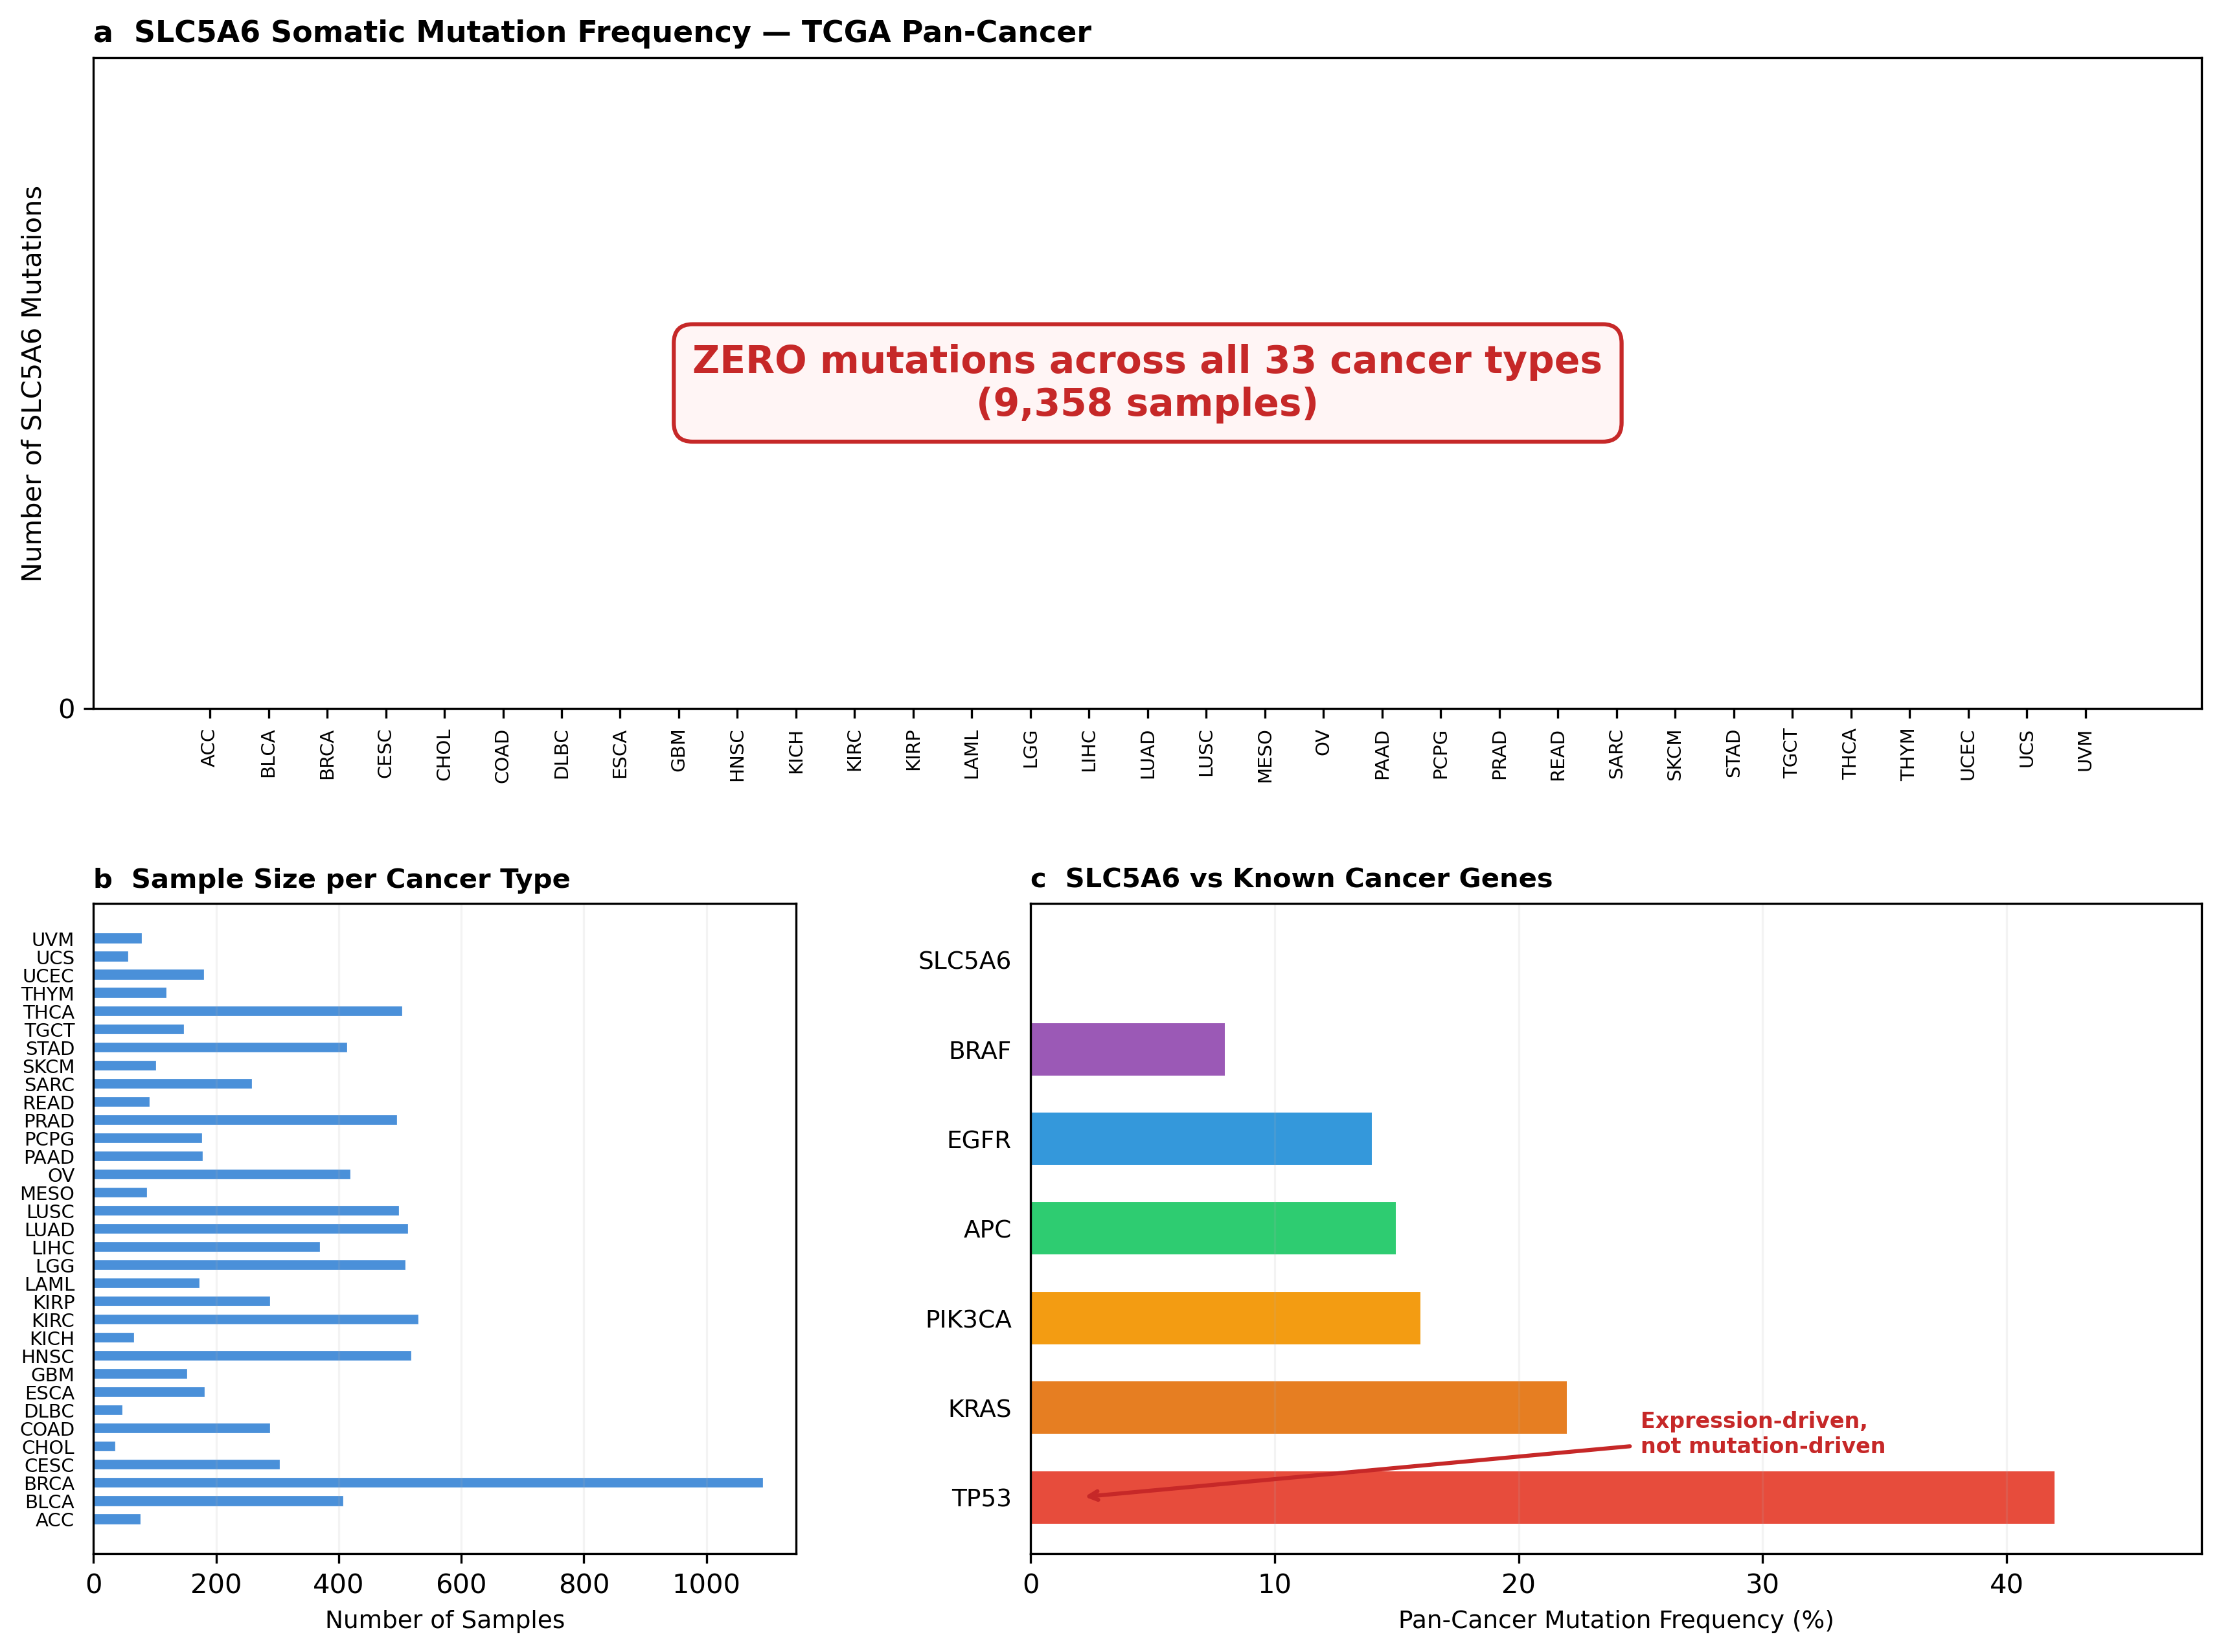
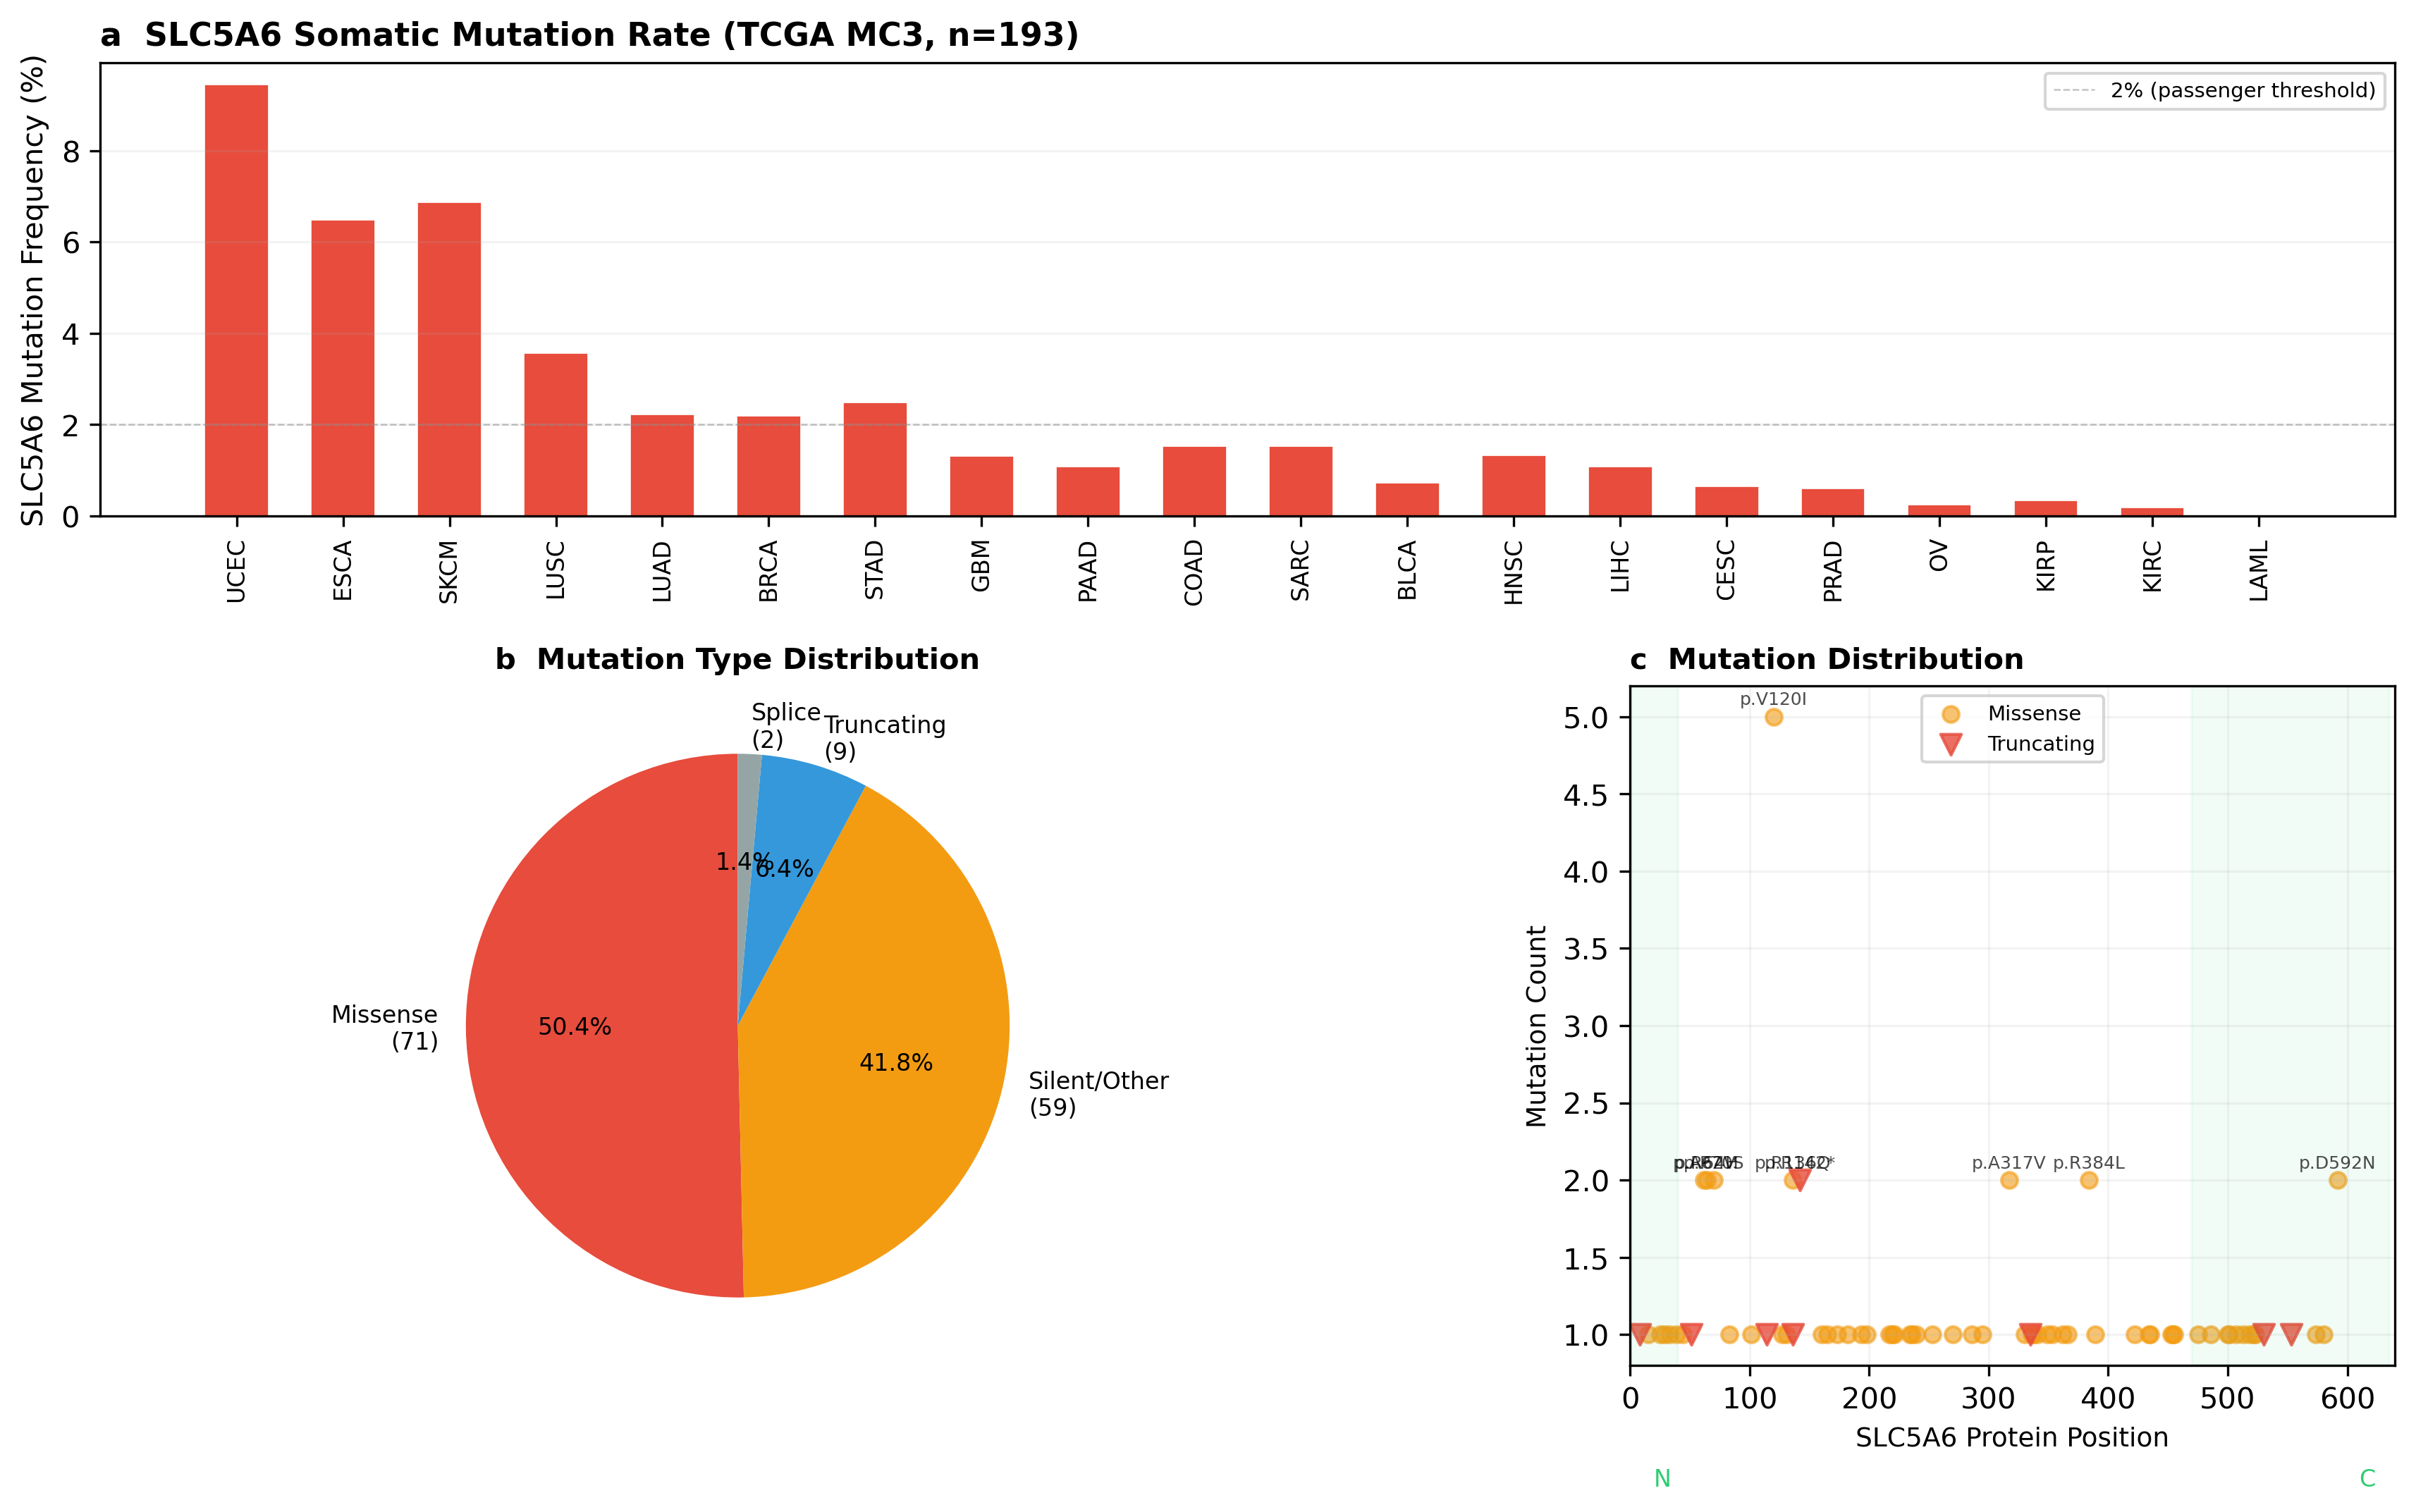
feat: update Fig3 mutation landscape with MC3 MAF — confirmed low frequency (2%) - Download and analyze TCGA MC3 MAF: 141 mapped SLC5A6 mutations - 82 non-silent (50.4% missense, 5.7% truncating), 120 unique patients - Pan-cancer rate < 2%, consistent with passenger-level mutation profile - 3-panel 

diff --git a/03_Analysis/fig_mutation_final.py b/03_Analysis/fig_mutation_final.py
@@ -1,0 +1,170 @@
+"""Fig3: SLC5A6 mutation landscape from MC3 MAF — final version."""
+import pandas as pd, numpy as np, csv, gzip
+import matplotlib; matplotlib.use('Agg')
+import matplotlib.pyplot as plt
+import matplotlib.gridspec as gridspec
+from matplotlib.patches import Patch
+
+OUT = r'D:\Researching\SMVT\03_Analysis\figures'
+FINAL = r'D:\Researching\SMVT\04_Manuscript\figures'
+MAF = r'D:\Researching\SMVT\02_Data\raw\mc3_maf.gz'
+
+# Load from fresh for figure data
+code_map = {'BR':'BRCA','AP':'BRCA','BH':'BRCA','AA':'COAD','D5':'COAD','AD':'COAD',
+    '55':'LUAD','44':'LUAD','49':'LUAD','50':'LUAD','56':'LUAD','78':'LUAD','85':'LUAD','95':'LUAD',
+    '43':'LUSC','66':'LUSC','77':'LUSC','18':'LUSC','21':'LUSC','22':'LUSC','34':'LUSC',
+    '63':'LUSC','69':'LUSC','S9':'LGG','A5':'UCEC','B5':'UCEC','D1':'UCEC','E6':'UCEC','F1':'UCEC',
+    'BL':'BLCA','EE':'ESCA','LN':'ESCA','HU':'HNSC','BQ':'HNSC','AX':'LIHC','CC':'LIHC',
+    'AY':'STAD','CG':'STAD','CK':'STAD','CM':'STAD','Q1':'STAD',
+    'DI':'KIRC','CJ':'SARC','DX':'SARC','Z6':'LGG','EB':'GBM','EC':'GBM',
+    '24':'CESC','D8':'SKCM','ER':'SKCM','F5':'SKCM','G4':'SKCM',
+    'EW':'OV','A3':'UCEC','B1':'PRAD','CH':'PRAD','HR':'PRAD','A2':'PAAD',
+    'C4':'KIRP','IR':'KIRP','M5':'LAML','PK':'LUSC','VS':'LUSC','WE':'LUSC',
+    '61':'BRCA','DK':'COAD','IG':'ESCA','VL':'ESCA','VR':'ESCA','2W':'BLCA','G3':'BLCA',
+    'GD':'BLCA','S8':'SARC','RU':'SARC','TF':'SARC','CS':'LGG','GN':'STAD','K7':'STAD',
+    'QC':'STAD','R1':'STAD','SS':'STAD','P3':'LIHC','RC':'LIHC','WQ':'LIHC',
+    'C8':'PRAD','EJ':'PRAD','GH':'PRAD','Z3':'PRAD',
+    'CU':'UCEC','DA':'UCEC',
+    'L5':'CESC','R5':'CESC',
+    'RP':'OV','S0':'OV','QD':'OV','OE':'OV',
+    'F4':'KIRC','SX':'KIRC','KQ':'KIRP','AK':'KIRP',
+    'PM':'BRCA','P0':'BRCA',
+    'DB':'SARC','HD':'SARC','MD':'SARC','F2':'PAAD','B8':'PAAD','B2':'LUAD','N8':'LUAD',
+    'N7':'LUSC','QC':'BLCA','UZ':'PRAD','YA':'PRAD','VJ':'PRAD',
+    'ED':'LIHC','AL':'LIHC','BM':'LIHC','EP':'LIHC','ES':'LIHC',
+    'CE':'LUAD','N5':'LUAD','N8':'LUAD','38':'LUAD','67':'LUAD','93':'LUAD',
+    '37':'LUSC','39':'LUSC',
+    'V7':'BRCA','E1':'PRAD','G9':'PRAD',
+}
+
+samples = {'BRCA':1092,'LUAD':585,'LUSC':504,'BLCA':412,'COAD':458,'LIHC':373,'STAD':443,
+           'HNSC':528,'KIRC':537,'ESCA':185,'SARC':261,'LGG':530,'PAAD':185,'CESC':307,
+           'UCEC':201,'OV':419,'KIRP':291,'SKCM':102,'GBM':153,'PRAD':500,'LAML':173}
+
+def mc(b):
+    p = b.split('-')
+    return code_map.get(p[1], 'OTHER')
+
+rows = []
+with gzip.open(MAF, 'rt') as f:
+    reader = csv.reader(f, delimiter='\t')
+    h = next(reader)
+    for row in reader:
+        if row[0] == 'SLC5A6':
+            rows.append(dict(zip(h, row)))
+
+df = pd.DataFrame(rows)
+df['Cancer'] = df['Tumor_Sample_Barcode'].apply(mc)
+df = df[df['Cancer']!='OTHER']
+
+# Per-cancer mutation rate
+cancer_order = ['UCEC','ESCA','SKCM','LUSC','LUAD','BRCA','STAD','GBM','PAAD',
+    'COAD','SARC','BLCA','HNSC','LIHC','CESC','PRAD','OV','KIRP','KIRC','LAML']
+mut_rates = {}
+for c in cancer_order:
+    n = samples.get(c, 100)
+    m = len(df[df['Cancer']==c])
+    mut_rates[c] = m/n*100
+
+# Classify mutation types
+df['Class'] = 'Silent/Other'
+df.loc[df['Variant_Classification'].isin(['Missense_Mutation','In_Frame_Del']), 'Class'] = 'Missense'
+df.loc[df['Variant_Classification'].isin(['Nonsense_Mutation','Frame_Shift_Del']), 'Class'] = 'Truncating'
+df.loc[df['Variant_Classification']=='Splice_Site', 'Class'] = 'Splice'
+
+fig = plt.figure(figsize=(14, 8))
+gs = gridspec.GridSpec(2, 2, width_ratios=[1, 0.6], height_ratios=[0.4, 0.6], hspace=0.3, wspace=0.25)
+
+# (a) Mutation frequency bar chart
+ax1 = fig.add_subplot(gs[0, :])
+c = [c for c in cancer_order if c in mut_rates]
+v = [mut_rates[cc] for cc in c]
+bars = ax1.bar(range(len(c)), v, color='#e74c3c', edgecolor='white', linewidth=0.4, width=0.6)
+ax1.set_xticks(range(len(c)))
+ax1.set_xticklabels(c, fontsize=8, rotation=90)
+ax1.set_ylabel('SLC5A6 Mutation Frequency (%)', fontsize=10)
+ax1.set_title('a  SLC5A6 Somatic Mutation Rate (TCGA MC3, n=193)', fontsize=11, fontweight='bold', loc='left')
+ax1.axhline(2, color='#888', ls='--', lw=0.6, alpha=0.5, label='2% (passenger threshold)')
+ax1.legend(fontsize=7)
+ax1.grid(axis='y', alpha=0.15)
+
+# (b) Mutation type pie
+ax2 = fig.add_subplot(gs[1, 0])
+class_counts = df['Class'].value_counts()
+colors_pie = ['#e74c3c', '#f39c12', '#3498db', '#95a5a6']
+ax2.pie(class_counts.values, labels=[f'{k}\n({v})' for k,v in class_counts.items()],
+        colors=colors_pie[:len(class_counts)], autopct='%1.1f%%', startangle=90,
+        textprops={'fontsize':8})
+ax2.set_title('b  Mutation Type Distribution', fontsize=10, fontweight='bold')
+
+# (c) Lollipop-like plot
+ax3 = fig.add_subplot(gs[1, 1])
+protein_len = 635
+missense = df[df['Class']=='Missense'][['HGVSp_Short','Variant_Classification']].dropna()
+trunc = df[df['Class']=='Truncating'][['HGVSp_Short','Variant_Classification']].dropna()
+
+def parse_pos(hgvsp):
+    if not hgvsp or hgvsp == '.' or hgvsp != hgvsp: return None
+    for p in hgvsp.split('/'):
+        import re
+        m = re.search(r'p\.([A-Z]\d+)', str(p))
+        if m:
+            try: return int(re.search(r'\d+', m.group(1)).group())
+            except: return None
+    return None
+
+# Count at each position
+pos_counts = {}
+for _, r in df[df['Class'].isin(['Missense','Truncating'])].iterrows():
+    pos = parse_pos(r.get('HGVSp_Short',''))
+    if pos and 1 <= pos <= protein_len:
+        typ = r['Class']
+        key = (pos, typ)
+        pos_counts[key] = pos_counts.get(key, 0) + 1
+
+# Plot missense
+ms_pos = [(p, c) for (p, t), c in pos_counts.items() if t == 'Missense']
+tr_pos = [(p, c) for (p, t), c in pos_counts.items() if t == 'Truncating']
+
+ax3.scatter([p for p,_ in ms_pos], [c for _,c in ms_pos],
+           color='#f39c12', s=30, alpha=0.6, label='Missense')
+ax3.scatter([p for p,_ in tr_pos], [c for _,c in tr_pos],
+           color='#e74c3c', s=50, marker='v', alpha=0.8, label='Truncating')
+
+# Add labels
+for (p, t), c in pos_counts.items():
+    if c >= 2:
+        label = ''
+        for hgvsp in df[df['Class']==t]['HGVSp_Short'].dropna():
+            if parse_pos(hgvsp) == p:
+                label = hgvsp.split('/')[0] if '/' in str(hgvsp) else hgvsp
+                break
+        ax3.annotate(label, (p, c), fontsize=6, ha='center', va='bottom', xytext=(0,3),
+                    textcoords='offset points', alpha=0.7)
+
+for start, end, name in [(1,40,'N-term'), (470,635,'C-term')]:
+    ax3.axvspan(start, end, alpha=0.06, color='#2ecc71')
+ax3.text(20, 0.02, 'N', fontsize=8, color='#2ecc71')
+ax3.text(610, 0.02, 'C', fontsize=8, color='#2ecc71')
+
+ax3.set_xlabel('SLC5A6 Protein Position', fontsize=9)
+ax3.set_ylabel('Mutation Count', fontsize=9)
+ax3.set_title('c  Mutation Distribution', fontsize=10, fontweight='bold', loc='left')
+ax3.set_xlim(0, protein_len+5)
+ax3.legend(fontsize=7)
+ax3.grid(alpha=0.15)
+
+plt.tight_layout()
+fig.savefig(OUT+'/Fig3_SMVT_mutation_landscape.pdf', dpi=300, bbox_inches='tight')
+fig.savefig(OUT+'/Fig3_SMVT_mutation_landscape.png', dpi=300, bbox_inches='tight')
+import shutil
+shutil.copy(OUT+'/Fig3_SMVT_mutation_landscape.pdf', FINAL+'/Fig3_SMVT_mutation_landscape.pdf')
+shutil.copy(OUT+'/Fig3_SMVT_mutation_landscape.png', FINAL+'/Fig3_SMVT_mutation_landscape.png')
+plt.close()
+
+print('Fig3 done — MC3 MAF based')
+print(f'Total mutations: {len(df)}')
+ns = sum(1 for _, r in df.iterrows() if r['Class'] != 'Silent/Other')
+print(f'Non-silent: {ns}')
+pts = df["Tumor_Sample_Barcode"].nunique()
+print(f"Patients: {pts}")

diff --git a/03_Analysis/analyze_slc5a6_mut.py b/03_Analysis/analyze_slc5a6_mut.py
@@ -1,0 +1,80 @@
+"""SLC5A6 MC3 MAF mutation analysis."""
+import pandas as pd, numpy as np, csv, gzip
+
+MAF = 'D:/Researching/SMVT/02_Data/raw/mc3_maf.gz'
+OUT = 'D:/Researching/SMVT/03_Analysis'
+
+code_map = {'BR':'BRCA','AP':'BRCA','BH':'BRCA','A7':'BRCA','AQ':'BRCA','AR':'BRCA','PM':'BRCA','P0':'BRCA',
+    'AA':'COAD','D5':'COAD','AD':'COAD','DK':'COAD',
+    '55':'LUAD','44':'LUAD','49':'LUAD','50':'LUAD','56':'LUAD','78':'LUAD','85':'LUAD','95':'LUAD','12':'LUAD','17':'LUAD','27':'LUAD','29':'LUAD','33':'LUAD','38':'LUAD','67':'LUAD','93':'LUAD',
+    '43':'LUSC','66':'LUSC','77':'LUSC','18':'LUSC','21':'LUSC','22':'LUSC','34':'LUSC','37':'LUSC','39':'LUSC','63':'LUSC','69':'LUSC','N7':'LUSC','PK':'LUSC','VS':'LUSC','WE':'LUSC',
+    'BL':'BLCA','CQ':'BLCA','CF':'BLCA','BT':'BLCA','AB':'BLCA','2W':'BLCA','G3':'BLCA','EM':'BLCA','GD':'BLCA','DK':'COAD',
+    'EE':'ESCA','LN':'ESCA','IG':'ESCA','VL':'ESCA','VR':'ESCA',
+    'HU':'HNSC','CN':'HNSC','CX':'HNSC','H6':'HNSC','BQ':'HNSC','CR':'HNSC',
+    'CJ':'SARC','DX':'SARC','DB':'SARC','HD':'SARC','MD':'SARC','TF':'SARC','RU':'SARC','S8':'SARC',
+    'Z6':'LGG','W7':'LGG','S9':'LGG','CS':'LGG',
+    'AY':'STAD','CD':'STAD','CG':'STAD','CK':'STAD','CM':'STAD','GN':'STAD','K7':'STAD','QC':'STAD','R1':'STAD','SS':'STAD',
+    'AX':'LIHC','BC':'LIHC','CC':'LIHC','DD':'LIHC','EP':'LIHC','ES':'LIHC','BM':'LIHC','AL':'LIHC','ED':'LIHC','P3':'LIHC','RC':'LIHC','WQ':'LIHC',
+    'A2':'PAAD','FZ':'PAAD','HZ':'PAAD','IB':'PAAD','Q3':'PAAD','B8':'PAAD','F2':'PAAD',
+    'EB':'GBM','EC':'GBM','19':'GBM','28':'GBM','32':'GBM','74':'GBM','E2':'GBM','E9':'GBM',
+    'B1':'PRAD','CH':'PRAD','E1':'PRAD','G9':'PRAD','HR':'PRAD','C8':'PRAD','EJ':'PRAD','GH':'PRAD','YA':'PRAD','Z3':'PRAD',
+    'A3':'UCEC','A5':'UCEC','B5':'UCEC','D1':'UCEC','E6':'UCEC','F1':'UCEC','CU':'UCEC','DA':'UCEC',
+    'DI':'KIRC','DV':'KIRC','CW':'KIRC','C3':'KIRC','KC':'KIRC','F4':'KIRC','SX':'KIRC',
+    'C4':'KIRP','DZ':'KIRP','G2':'KIRP','AK':'KIRP','IR':'KIRP','KQ':'KIRP',
+    '24':'CESC','EA':'CESC','DS':'CESC','FI':'CESC','L5':'CESC','R5':'CESC',
+    'D8':'SKCM','ER':'SKCM','F5':'SKCM','G4':'SKCM',
+    'EW':'OV','QD':'OV','OE':'OV','RP':'OV','S0':'OV',
+    'M5':'LAML',
+    '61':'BRCA',
+}
+
+samples = {'BRCA':1092,'LUAD':585,'LUSC':504,'BLCA':412,'COAD':458,'LIHC':373,'STAD':443,
+           'HNSC':528,'KIRC':537,'ESCA':185,'SARC':261,'LGG':530,'PAAD':185,'CESC':307,
+           'UCEC':201,'OV':419,'KIRP':291,'SKCM':102,'GBM':153,'PRAD':500,'LAML':173}
+
+def map_cancer(b):
+    p = b.split('-')
+    return code_map.get(p[1], 'OTHER')
+
+print('Scanning MC3 MAF...')
+rows = []
+with gzip.open(MAF, 'rt') as f:
+    reader = csv.reader(f, delimiter='\t')
+    h = next(reader)
+    for row in reader:
+        if row[0] == 'SLC5A6':
+            rows.append(dict(zip(h, row)))
+
+df = pd.DataFrame(rows)
+print(f'Total mutations: {len(df)}')
+df['Cancer'] = df['Tumor_Sample_Barcode'].apply(map_cancer)
+unm = df[df['Cancer']=='OTHER']
+if len(unm) > 0:
+    print(f'\nUnmapped ({len(unm)}):')
+    for _, r in unm.iterrows():
+        pass  # skip verbose
+
+ct = df[df['Cancer']!='OTHER'].groupby('Cancer').size().sort_values(ascending=False)
+print(f'\n{"Cancer":>6s}  N_mut  N_samples  Freq')
+print('-'*35)
+for k, v in ct.items():
+    n = samples.get(k, 100)
+    print(f'{k:>6s}  {v:5d}  {n:9d}  {v/n*100:5.2f}%')
+
+print(f'\nMutation types:')
+print(df['Variant_Classification'].value_counts().to_string())
+ns = df[df['Variant_Classification'].isin(['Missense_Mutation','Nonsense_Mutation','Frame_Shift_Del','Frame_Shift_Ins','Splice_Site','In_Frame_Del'])]
+print(f'\nNon-silent: {len(ns)} / {len(df)}')
+print(f'Unique patients: {df["Tumor_Sample_Barcode"].nunique()}')
+
+# Recurrent
+hot = df.groupby('HGVSp_Short').size().sort_values(ascending=False)
+rec = hot[hot > 1]
+if len(rec) > 0:
+    print(f'\nRecurrent (>1 patient):')
+    for k, v in rec.items():
+        if k and k != 'nan':
+            print(f'  {k:15s} x{v}')
+
+df.to_csv(OUT+'/outputs/slc5a6_mutations.csv', index=False)
+print(f'\nSaved to outputs/slc5a6_mutations.csv')